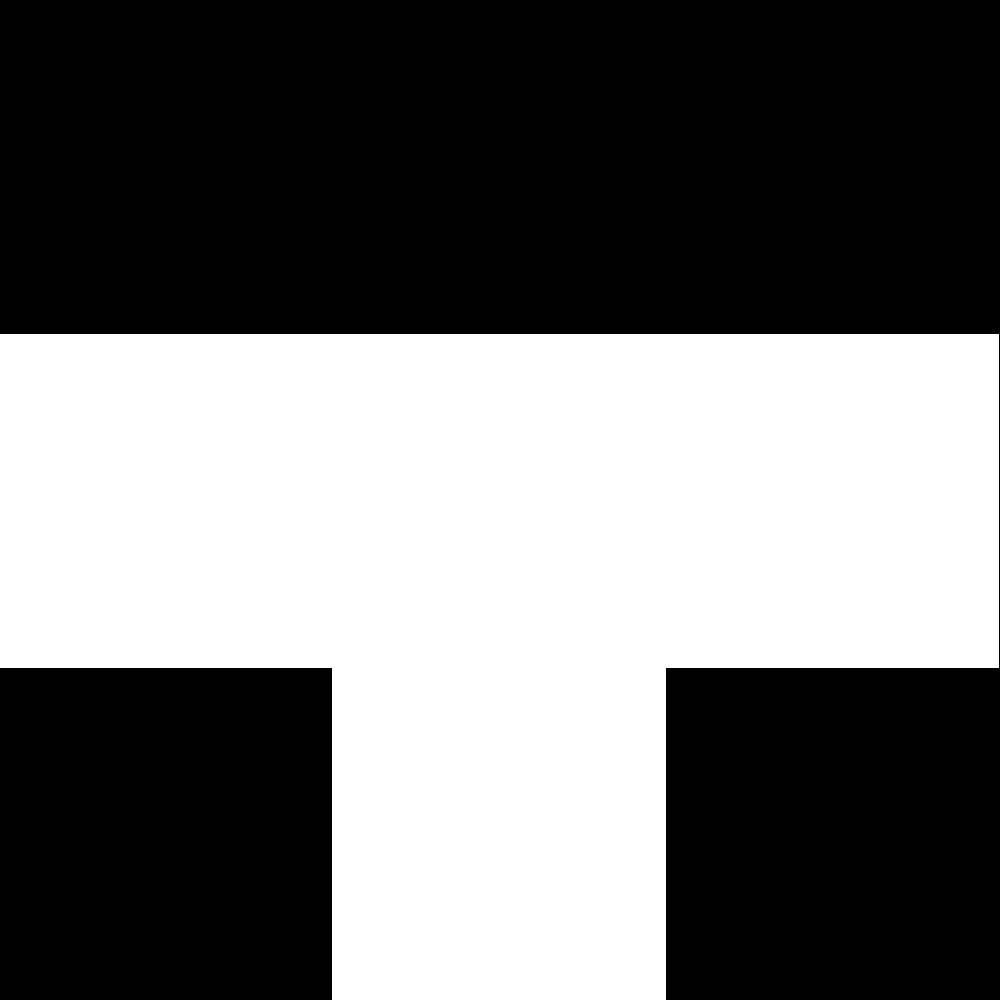
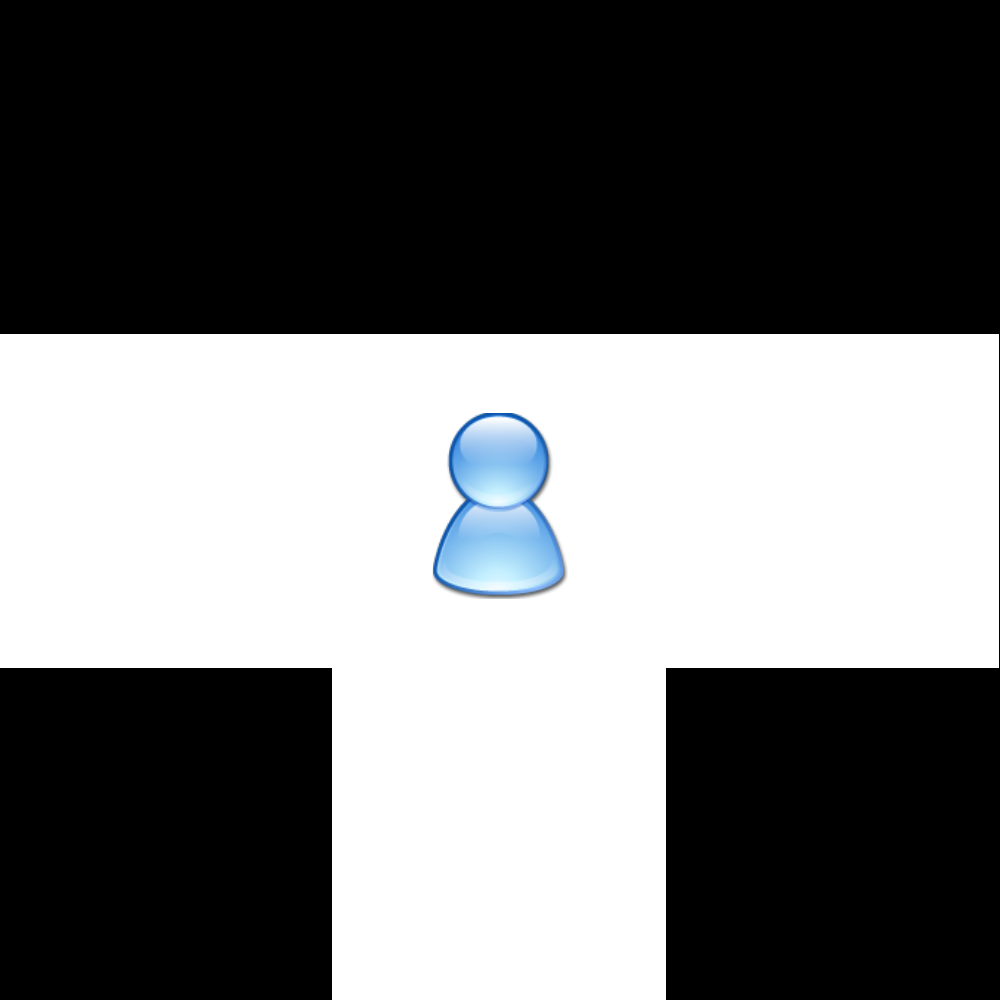
#5 switch map items

Changed region(s): [[0.434, 0.403, 0.589, 0.62]]

diff --git a/html/script/board.js b/html/script/board.js
@@ -10,21 +10,82 @@ function loadBoard() {
         };
     };
 
-    OTMA.Board.setNavigationBorders = function(coordinate, north, south, east, west) {
+    OTMA.Board.setNavigationBorders = function(coordinate, north, east, south, west) {
         var boardItem = OTMA.Board.boardElements[coordinate];
         if (! boardItem) return;
 
+        var northMapItem = OTMA.Board.boardElements[north];
+        var southMapItem = OTMA.Board.boardElements[south];
+        var westMapItem = OTMA.Board.boardElements[west];
+        var eastMapItem = OTMA.Board.boardElements[east];
+
         $.extend(boardItem, {
-            north: north,
-            south: south,
-            east: east,
-            west: west
+            north: northMapItem,
+            south: southMapItem,
+            east: eastMapItem,
+            west: westMapItem
         });
     };
 
     OTMA.Board.createBoardElement("1x1.png", "1x1");
     OTMA.Board.createBoardElement("1x2.png", "1x2");
+    OTMA.Board.createBoardElement("1x3.png", "1x3");
+    OTMA.Board.createBoardElement("1x4.png", "1x4");
+    OTMA.Board.createBoardElement("1x5.png", "1x5");
 
-    OTMA.Board.setNavigationBorders("1x1", OTMA.Board.boardElements["1x2"], undefined, undefined, undefined)
+    OTMA.Board.createBoardElement("2x1.png", "2x1");
+    OTMA.Board.createBoardElement("2x2.png", "2x2");
+    OTMA.Board.createBoardElement("2x3.png", "2x3");
+    OTMA.Board.createBoardElement("2x4.png", "2x4");
+    OTMA.Board.createBoardElement("2x5.png", "2x5");
+
+    OTMA.Board.createBoardElement("3x1.png", "3x1");
+    OTMA.Board.createBoardElement("3x2.png", "3x2");
+    OTMA.Board.createBoardElement("3x3.png", "3x3");
+    OTMA.Board.createBoardElement("3x4.png", "3x4");
+    OTMA.Board.createBoardElement("3x5.png", "3x5");
+
+    OTMA.Board.createBoardElement("4x1.png", "4x1");
+    OTMA.Board.createBoardElement("4x2.png", "4x2");
+    OTMA.Board.createBoardElement("4x3.png", "4x3");
+    OTMA.Board.createBoardElement("4x4.png", "4x4");
+    OTMA.Board.createBoardElement("4x5.png", "4x5");
+
+    OTMA.Board.createBoardElement("5x1.png", "5x1");
+    OTMA.Board.createBoardElement("5x2.png", "5x2");
+    OTMA.Board.createBoardElement("5x3.png", "5x3");
+    OTMA.Board.createBoardElement("5x4.png", "5x4");
+    OTMA.Board.createBoardElement("5x5.png", "5x5");
+
+
+    OTMA.Board.setNavigationBorders("1x1", undefined, undefined, "2x1", undefined);
+    OTMA.Board.setNavigationBorders("1x2", undefined, "1x3", "2x2", undefined);
+    OTMA.Board.setNavigationBorders("1x3", undefined, "1x4", "2x3", "1x2");
+    OTMA.Board.setNavigationBorders("1x4", undefined, "1x5", undefined, "1x3");
+    OTMA.Board.setNavigationBorders("1x5", undefined, undefined, undefined, "1x4");
+
+    OTMA.Board.setNavigationBorders("2x1", "1x1", "2x2", "3x1", undefined);
+    OTMA.Board.setNavigationBorders("2x2", "1x2", undefined, undefined, "2x1");
+    OTMA.Board.setNavigationBorders("2x3", "1x3", undefined, "3x3", undefined);
+    OTMA.Board.setNavigationBorders("2x4", undefined, "2x5", undefined, undefined);
+    OTMA.Board.setNavigationBorders("2x5", undefined, undefined, "3x5", "2x4");
+
+    OTMA.Board.setNavigationBorders("3x1", "2x1", undefined, "4x1", undefined);
+    OTMA.Board.setNavigationBorders("3x2", undefined, "3x3", "4x2", undefined);
+    OTMA.Board.setNavigationBorders("3x3", "2x3", "3x4", undefined, "3x2");
+    OTMA.Board.setNavigationBorders("3x4", undefined, "3x5", undefined, "3x3");
+    OTMA.Board.setNavigationBorders("3x5", "2x5", undefined, "4x5", "3x4");
+
+    OTMA.Board.setNavigationBorders("4x1", "3x1", "4x2", "5x1", "undefined");
+    OTMA.Board.setNavigationBorders("4x2", "3x2", "4x3", undefined, "4x1");
+    OTMA.Board.setNavigationBorders("4x3", undefined, undefined, "5x3", "4x2");
+    OTMA.Board.setNavigationBorders("4x4", undefined, "4x5", "5x4", undefined);
+    OTMA.Board.setNavigationBorders("4x5", "3x5", undefined, "5x5", "4x4");
+
+    OTMA.Board.setNavigationBorders("5x1", "4x1", "5x2", undefined, undefined);
+    OTMA.Board.setNavigationBorders("5x2", undefined, "5x3", undefined, "5x1");
+    OTMA.Board.setNavigationBorders("5x3", "4x3", "5x4", undefined, "5x2");
+    OTMA.Board.setNavigationBorders("5x4", "4x4", undefined, undefined, "5x3");
+    OTMA.Board.setNavigationBorders("5x5", "4x5", undefined, undefined, undefined);
 }
 

diff --git a/html/index.html b/html/index.html
@@ -17,10 +17,10 @@
 <div id='main'>
 
     <div id='npcHolder'>
-        <img id='npcImage' style='margin-left: 20px; margin-top: 5px' src='images/head.png' />
+        <img id='npcImage' src='images/head.png'  alt="npcImage"/>
     </div>
     <div id='background'>
-        <img id='backgroundImage' src='images/map/1x1.png'/>
+        <img id='backgroundImage' src='images/map/1x1.png' alt="backgroundImage"/>
     </div>
 
 
@@ -30,12 +30,12 @@
         </div>
         <table class="navigationButtons">
             <tr>
-                <td rowspan="2"><input id='west' type='submit' value='west' onclick='OTMA.Navigation.movePlayerTo("west")'/></td>
-                <td><input id='north' type='submit' value='north' onclick='OTMA.Navigation.movePlayerTo("north")' /></td>
-                <td rowspan="2"><input id='east' type='submit' value='east' onclick='OTMA.Navigation.movePlayerTo("east")'/></td>
+                <td rowspan="2"><input id='west' type='image' src='images/black_west.png' value='west' onclick='OTMA.Navigation.movePlayerTo("west")'/></td>
+                <td><input id='north' type='image' src='images/black_north.png' value='north' onclick='OTMA.Navigation.movePlayerTo("north")' /></td>
+                <td rowspan="2"><input id='east' type='image' src='images/black_east.png' value='east' onclick='OTMA.Navigation.movePlayerTo("east")'/></td>
             </tr>
             <tr>
-                <td><input id='south' type='submit' value='south' onclick='OTMA.Navigation.movePlayerTo("south")' /></td>
+                <td><input id='south' type='image' src='images/black_south.png' value='south' onclick='OTMA.Navigation.movePlayerTo("south")' /></td>
             </tr>
         </table>
     </div>

diff --git a/html/style.css b/html/style.css
@@ -1,12 +1,12 @@
 div#main {
-    width: 300px;
+    width: 400px;
     padding: 3px;
     border: 1px blue solid;
 }
 
 div#background {
     z-index: 0;
-    width: 300px;
+    width: 400px;
     height: 400px;
 }
 
@@ -18,13 +18,13 @@ div#background img {
 }
 
 div#npcHolder {
-    float: left;
-    width: 100px;
+    float: right;
     height: 100px;
 }
 
 div#npcHolder img {
     z-index: 1;
+    margin: 10px;
     position: relative;
 }
 
@@ -38,6 +38,7 @@ table.navigationButtons tr td {
 }
 
 table.navigationButtons input {
+    height: 30px;
     width: 100%;
 }
 

diff --git a/html/script/view.js b/html/script/view.js
@@ -5,8 +5,10 @@ function initialiseView() {
             function disableButtonIfNavigationIsUndefined(mapItem, property, buttonId) {
                 if (mapItem[property] == undefined) {
                     $(buttonId).attr('disabled', true);
+                    $(buttonId).attr('src', 'images/white_' + property + '.png');
                 } else {
                     $(buttonId).attr('disabled', false);
+                    $(buttonId).attr('src', 'images/black_' + property + '.png');
                 }
             }
 
